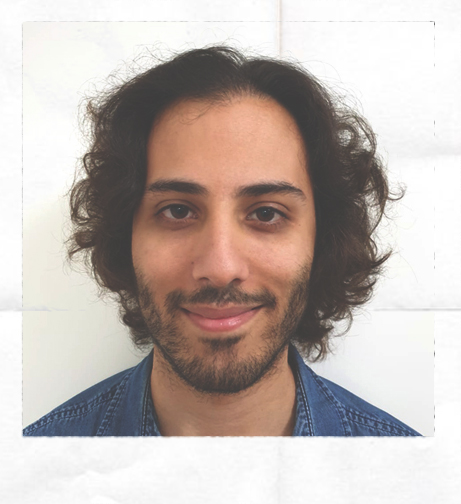
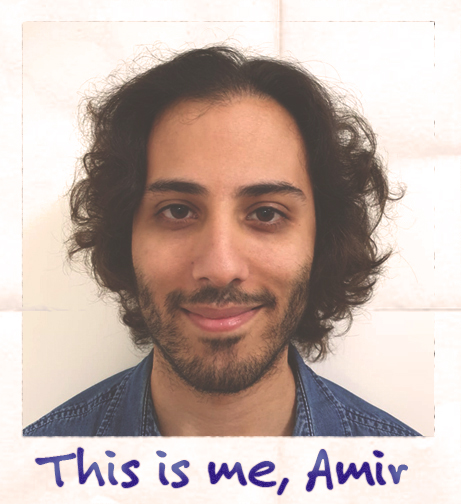
Improved responsive design in all views. Added hamburger. Improved styles on all links. Added text to profile picture

Changed region(s): [[0.3341, 0.8929, 0.8807, 0.9821], [0.0607, 0.8929, 0.3037, 0.9821]]

diff --git a/pages/index.tsx b/pages/index.tsx
@@ -8,52 +8,60 @@ import TopSvg from '../components/svgs/layered-waves-haikei.svg'
 import Brushstroke from '../components/svgs/brushstroke_small.svg'
 import BotSvg from '../components/svgs/layered-waves-haikei-bottom4.svg'
 import {FaChevronDown, FaJava, FaCss3Alt, FaHtml5, FaJsSquare, FaPhp, FaGit} from 'react-icons/fa/'
+import {FiChevronsUp} from 'react-icons/fi'
 import {IoLocationOutline} from 'react-icons/io5/'
 import {DiScrum} from 'react-icons/di/'
 import {SiTypescript, SiMysql, SiCplusplus, SiApachegroovy, SiAngular, SiNextdotjs, SiLaravel, SiGithub, SiGitlab, SiJirasoftware, SiTeamcity, SiPostman, SiSpring, SiSpringboot, SiIntellijidea, SiVisualstudiocode, SiDocker, SiLinux, SiTailwindcss, SiAdobephotoshop} from 'react-icons/si/'
 import {AiFillLinkedin, AiFillFacebook, AiOutlineGithub} from 'react-icons/ai/'
 import { Inter } from '@next/font/google'
 import { InView } from 'react-intersection-observer';
+import React, { useState } from "react";
 
 
 const inter = Inter({ subsets: ['latin'] })
-
 const iconStyle = "w-5/5 h-2/5 text-white sm:text-9xl sm:h-2/4";
 
 export default function Home() {  
+  const [homeInView, sethomeInView] = useState(false);
   return (
     <>
       <Head>
-        <title>Create Next App</title>
+        <title>Colorful Code</title>
         <meta name="description" content="Generated by create next app" />
         <meta name="viewport" content="width=device-width, initial-scale=1" />
         <link rel="icon" href="/favicon.ico" />
       </Head>
-
-      <main className='snap-y snap-mandatory scroll-smooth h-screen w-full overflow-y-scroll'>
-        <Nav />
-        <section id="home" className='snap-start bg-lavaOrange w-full h-full flex flex-col justify-center overflow-hidden'>
-          <h1 className="animate-fadeInDown animate-fast mb-20 text-violet-500 uppercase font-extrabold text-center drop-shadow-lg text-5xl sm:text-9xl ">Colorful Code</h1>
-          <h2 className="animate-fadeIn animate-slow animate-delay-[600ms] mb-20 text-zinc-800 lowercase font-light text-center text-sm sm:text-lg sm:font-normal">Bringing a human touch to technology</h2>
-          <a className='animate-fadeInUpBig animate-duration-[2.1s] animate-delay-[600ms] self-center' href="#about"><FaChevronDown className='animate-shakeY animate-infinite animate-duration-[10s] self-center text-4xl sm:text-6xl'/></a>
-        </section>
+      
+      <main className='relative snap-y snap-mandatory scroll-smooth h-screen w-full overflow-y-scroll'>
+          <Nav showHamburger={!homeInView} />  
+          <InView triggerOnce={false} threshold={0.01} initialInView={true} fallbackInView={true} onChange={(inView) => sethomeInView(!homeInView)}>
+          {({ inView, ref, entry }) => (
+            <section ref={ref} id="home" className="snap-start bg-lavaOrange w-full h-full flex flex-col gap-4 justify-center overflow-hidden p-4 md:gap-6">
+              <h1 className="animate-fadeInDown animate-fast text-violet-500 uppercase font-extrabold text-center drop-shadow-lg text-5xl md:text-8xl lg:9xl ">Colorful Code</h1>
+              <h2 className="animate-fadeIn animate-slow animate-delay-[600ms] text-zinc-800 lowercase font-light text-center text-sm sm:text-lg sm:font-normal">Bringing a human touch to technology</h2>
+              <a className='animate-fadeInUpBig animate-duration-[2.1s] animate-delay-[600ms] self-center focus:ring-1 outline-none' href="#about"><FaChevronDown className='fill-black hover:fill-red-500 active:fill-red-700 animate-shakeY animate-infinite animate-duration-[10s] self-center text-4xl landscape:md:text-4xl md:text-7xl lg:text-6xl'/></a>
+            </section>
+          )}
+          </InView>
 
         <InView triggerOnce={true} threshold={0.01} initialInView={false} fallbackInView={true}>
         {({ inView, ref, entry }) => (
           <section id="about" ref={ref} className='snap-start bg-amber-400 w-full h-full flex flex-col overflow-y-auto p-8'>
             <div className={`relative flex justify-center mb-4 ${inView ? 'animate-slideInDown animate-fast' : ''}`}>
               <Brushstroke className="absolute w-1/2 h-1/2 top-1/2 fill-brightMustard"/>
-              <h1 className='text-shadow-sm relative uppercase drop-shadow-lg text-white text-center font-semibold text-3xl mb-2 sm:text-9xl sm:mb-10 sm:text-shadow-lg'>About</h1>
+              <h1 className='text-shadow-sm relative uppercase text-white text-center font-semibold text-3xl mb-2 landscape:md:text-4xl md:text-7xl lg:text-9xl lg:mb-10 lg:text-shadow-lg'>About</h1>
             </div>
-            <Image className={`self-center shadow-2xl w-70 h-70 object-fill rounded-md ${inView ? 'animate-jackInTheBox animate-slow' : ''}`} src="/images/profile.jpg" width="200" height="0" alt="Picture of Amir" />
-            <div className={`text-base space-y-6 my-6 self-center sm:mt-12 sm:mb-24 ${inView ? 'animate-slideInUp animate-faster' : ''}`}>
-              <p className="font-light text-gray-800">I'm the face behind Colorful Code, a 35 year old Software Engineer based in Sweden. At heart I'm a creative soul that is passionate about creating and problem solving. I also love to learn new things in life, so I try to stay curious and keep an open mind.</p>
-              <p className="font-light text-gray-800">My clients can always expect a professional service with modern technological solutions. I also aim to create a fun and engaging work environment and elevate my peers when possible.</p>
-              <p className="font-light text-gray-800">Outside of work I write and produce music, spend time with friends and family, hike, garden, exercise, travel, listen to podcasts etc. I wish there was more time in life because the list is long and it keeps growing! :D</p>
+            <div className="flex flex-col align-middle justify-center lg:flex-row lg:gap-10">
+              <Image className={`self-center shadow-2xl w-70 h-70 object-fill rounded-md ${inView ? 'animate-jackInTheBox animate-slow' : ''}`} src="/images/profile.jpg" width="200" height="0" alt="Picture of Amir" />
+              <div className={`font-light text-black text-center text-base space-y-6 my-6 lg:max-w-xl md:my-12 ${inView ? 'animate-slideInUp animate-faster' : ''}`}>
+                <p className="w-full">I'm the face behind Colorful Code, a 35 year old <span className="relative inline-block before:absolute before:bg-[#ffd500] before:w-[102%] before:h-[90%] before:-z-10 before:rounded-[15%_27%_20%_31%] before:-left-1 before:top-1 before:-rotate-2">Software Engineer based in Sweden.</span> At heart I'm a creative soul that is passionate about creating and problem solving. I also love to learn new things in life, so I try to stay curious and keep an open mind.</p>
+                <p>My clients can always expect a <span className="relative inline-block before:absolute before:bg-[#ffd500] before:w-full before:h-[90%] before:-z-10 before:rounded-[15%_30%_23%_28%] before:top-1 before:rotate-1">professional service with modern technological solutions.</span> I also aim to create a fun and engaging work environment and elevate my peers when possible. I am a big believer in being <span className="relative inline-block before:absolute before:bg-[#ffd500] before:w-full before:h-[90%] before:-z-10 before:rounded-[5%_25%_30%_50%] before:top-1 before:-left-0.5 before:-rotate-1">ambitious, genuine, reliable, responsible and a teamplayer.</span></p>
+                <p>Outside of work I write and produce music, spend time with friends and family, hike, garden, exercise, travel, listen to podcasts etc. I wish there was more time in life because the list is long and it keeps growing! :D</p>
+              </div>
             </div>
-              <h2 className={`text-center font-normal text-xl text-md sm:text-4xl sm:mb-2 sm:font-light ${inView ? 'animate-zoomIn animate-faster' : ''}`}>Tools I use</h2>
+              <h2 className={`text-center font-light text-xl text-md md:text-2xl md:font-light lg:text-4xl lg:mb-2 lg:font-light ${inView ? 'animate-zoomIn animate-faster' : ''}`}>Tools I use</h2>
               <div className="flex justify-center">
-                <div className={`flex flex-wrap max-w-3xl p-2 justify-center gap-0 sm:gap-x-10 gap-y-4 ${inView ? 'animate-zoomIn animate-faster' : ''}`}>
+                <div className={`flex flex-wrap max-w-3xl p-2 justify-center gap-0 md:gap-x-10 gap-y-4 ${inView ? 'animate-zoomIn animate-faster' : ''}`}>
                   <SkillsIconLink url="https://www.java.com" icon={<FaJava className={iconStyle} />}/>
                   <SkillsIconLink url="https://www.w3.org/Style/CSS/Overview.en.html" icon={<FaCss3Alt className={iconStyle} />}/>
                   <SkillsIconLink url="https://www.javascript.com" icon={<FaJsSquare className={iconStyle} />}/>
@@ -92,9 +100,9 @@ export default function Home() {
           <section id="projects" ref={ref} className='snap-start bg-teal-500  w-full h-full flex flex-col overflow-y-auto p-8'>
             <div className={`relative flex justify-center mb-4 ${inView ? 'animate-slideInLeft animate-faster sm:animate-slideInDown sm:animate-fast' : ''}`}>
               <Brushstroke className="absolute w-1/2 h-1/2 top-1/2 fill-green-300"/>
-              <h1 className='text-shadow-sm relative uppercase drop-shadow-lg text-white text-center font-semibold text-3xl mb-2 sm:text-9xl sm:mb-10 sm:text-shadow-lg'>Projects</h1>
+              <h1 className='text-shadow-sm relative uppercase text-white text-center font-semibold text-3xl mb-2 landscape:md:text-4xl md:text-7xl lg:text-9xl lg:mb-10 lg:text-shadow-lg'>Projects</h1>
             </div>
-            <p className={`text-xs font-thin self-center mb-4 sm:text-base ${inView ? 'animate-slideInRight animate-faster sm:animate-slideInUp' : ''}`}> Most of my work are things I can not share here due to client confidentiality. However, I have more personal projects that will be added soon.</p>
+            <p className={`text-xs font-thin self-center mb-4 md:text-base ${inView ? 'animate-slideInRight animate-faster sm:animate-slideInUp' : ''}`}> Most of my work are things I can not share here due to client confidentiality. However, I have more personal projects that will be added soon.</p>
             <div className={`flex flex-wrap grow gap-y-10 gap-x-20 justify-center overflow-y-auto ${inView ? 'animate-slideInLeft animate-faster sm:animate-slideInUp sm:animate-duration-500' : ''}`}>
               <ProjectCard imageName="teaguide" imageAlt="Image of this site" header="This portfolio site" repoName="nextjs-portfolio-site" siteUrl="https://www.colorfulcode.se" tools={["NextJS", "React", "CSS", "TailwindCSS", "HTML", "Animate.css", "FormCarry"]} text="A single page application to showcase my projects and promote my business. I wanted to learn some new frameworks with this project so I wrote this site using NextJS and Tailwind."/>
               <ProjectCard imageName="teaguide" imageAlt="Image of word search site" header="Word search" repoName="" siteUrl="" tools={["Spring Boot", "Java", "React", "NextJS"]} text="Currently under construction."/>
@@ -114,42 +122,47 @@ export default function Home() {
           <section id="contact"  ref={ref} className='snap-start bg-indigo-500 w-full h-full flex flex-col align-middle overflow-y-auto p-8'>
             <div className={`relative flex justify-center mb-4 ${inView ? 'animate-zoomIn animate-fast' : ''}`}>
                 <Brushstroke className="absolute w-1/2 h-1/2 top-1/2 fill-red-400"/>
-                <h1 className='text-shadow-sm relative uppercase drop-shadow-lg text-white text-center font-semibold text-3xl mb-2 sm:text-9xl sm:mb-10 sm:text-shadow-lg'>Contact</h1>
+                <h1 className='text-shadow-sm relative uppercase text-white text-center font-semibold text-3xl mb-2 landscape:md:text-4xl md:text-7xl lg:text-9xl lg:mb-10 lg:text-shadow-lg'>Contact</h1>
               </div>
 
             {/* Main container in this section */}
             <div className={`flex flex-wrap self-center space-y-4 w-full shadow-2xl rounded-lg border border-slate-600 sm:w-fit p-2 ${inView ? 'animate-slideInUp animate-faster' : ''}`}>
               <div className={`flex w-full justify-center mt-4 ${inView ? 'animate-flipInX animate-delay-[400ms]' : ''}`}>
-                <h2 className="text-center text-xs font-bold shadow-lg border-2 rounded-lg border-green-400 bg-green-100 p-2">Currently available for new contracts.</h2>
+                <h2 className="text-center text-xs font-bold shadow-lg border rounded-lg border-black bg-gradient-to-r from-lime-200 to-emerald-200 p-2">Currently available for new contracts.</h2>
               </div>
               {/* Container for contact form and address/icons */}
               <div className='flex flex-wrap w-full justify-center p-2'>
-                  <div className='flex max-w-xl'>
-                    <ContactForm bgColor="bg-indigo-500" sendBtnBorder="border-indigo-600 " sendBtnBg="bg-indigo-200" />   
+                  <div className='flex items-center max-w-xl lg:w-full'>
+                    <ContactForm bgColor="indigo-500" sendBtnBorderColor="indigo-600 " sendBtnBg="indigo-200" />   
                   </div>
                   <div className='flex grow flex-col h-auto self-center mt-8 space-y-10'>
                     <div className="flex items-center justify-center">
-                      <IoLocationOutline className='text-lg text-black mr-4'/>
-                      <div className="max-w-fit">
-                        <div className="max-w-fit font-light text-black tracking-wide">Colorful Code</div>
-                        <div className="max-w-fit font-light text-black tracking-wide">Gullbergsgatan 6</div>
-                        <div className="max-w-fit font-light text-black tracking-wide">58246 Linköping</div>
-                        <div className="max-w-fit font-light text-black tracking-wide">Sweden</div>
+                      <IoLocationOutline className='text-lg text-black mr-4 md:text-xl'/>
+                      <div className="max-w-fit font-light text-black tracking-wide md:text-xl">
+                        <div>Colorful Code</div>
+                        <div>Gullbergsgatan 6</div>
+                        <div>58246 Linköping</div>
+                        <div>Sweden</div>
                       </div>
                     </div>
-                    <div className='flex justify-center space-x-8 sm:justify-center sm:space-x-12'>         
-                      <a href="https://www.linkedin.com/in/colorfulcode/" target="_blank" className='flex justify-center align-middle shadow-md bg-gray-700 rounded-md'>
+                    <div className='flex justify-center space-x-8 md:space-x-12'>         
+                      <a href="https://www.linkedin.com/in/colorfulcode/" target="_blank" className='flex justify-center align-middle shadow-md bg-gray-700 rounded-md focus:outline-none focus:ring-2 focus:ring-slate-300 focus:ring-offset-2 ring-offset-indigo-600'>
                         <AiFillLinkedin className='text-4xl fill-red-300'/>
                       </a>   
-                      <a href="https://www.facebook.com/AmicciUntzUntz" target="_blank" className='flex justify-center align-middle shadow-md bg-gray-700 rounded-md'>
+                      <a href="https://www.facebook.com/AmicciUntzUntz" target="_blank" className='flex justify-center align-middle shadow-md bg-gray-700 rounded-md focus:outline-none focus:ring-2 focus:ring-slate-300 focus:ring-offset-2 ring-offset-indigo-600'>
                         <AiFillFacebook className='text-4xl fill-amber-400'/>
                       </a>   
-                      <a href="https://github.com/colorful-code" target="_blank" className='flex justify-center align-middle shadow-md bg-gray-700 rounded-md'>
+                      <a href="https://github.com/colorful-code" target="_blank" className='flex justify-center align-middle shadow-md bg-gray-700 rounded-md focus:outline-none focus:ring-2 focus:ring-slate-300 focus:ring-offset-2 ring-offset-indigo-600'>
                         <AiOutlineGithub className='text-4xl fill-teal-400'/>
                       </a>   
                     </div>
                   </div>
               </div>
+            </div>
+            <div className="w-full mt-10 mb-6 flex justify-center">
+              <a href="#home" className="shadow-md border border-indigo-600 bg-indigo-200 max-w-fit flex justify-center align-middle rounded-full px-2 py-3 animate-twBounce animate-infinite focus:outline-none focus:ring-2 focus:ring-slate-300 focus:ring-offset-2 ring-offset-indigo-600">
+                <FiChevronsUp className="mb-1 text-xl text-gray-700" />
+              </a>
             </div>
           </section>
         )}

diff --git a/components/Nav.tsx b/components/Nav.tsx
@@ -1,21 +1,44 @@
-const Nav = () => {
+import { useState } from 'react';
+
+const Nav = ({showHamburger = false}) => {
+    const [burgerMenuOpen, setburgerMenuOpen] = useState(false);
+
     return (
-        <nav id="nav" className="z-50 py-10 pr-16 absolute top-0 right-0 overflow-hidden hidden sm:inline">
-            <ul className="flex gap-5">
-                <li className="animate-fadeInRight animate-slower">
-                    <a className="border border-black text-black px-4 py-2 rounded-md" href="#home">Home</a>
-                </li>
-                <li className="animate-fadeInRight animate-slow">
-                    <a className="border border-black text-black px-4 py-2 rounded-md" href="#about">About</a>
-                </li>
-                <li className="animate-fadeInRight animate-fast">
-                <a className="border  border-black text-black px-4 py-2 rounded-md" href="#projects">Projects</a>
-                </li>
-                <li className="animate-fadeInRight animate-faster">
-                <a className="border  border-black text-black px-4 py-2 rounded-md" href="#contact">Contact</a>
-                </li>
-            </ul>
-        </nav>
+        <>
+            <nav className={`z-40 fixed top-0 left-0 w-full h-fitn ${showHamburger ? 'animate-bounceInLeft animate-fast block' : 'hidden'} 2xl:hidden`}>
+                <div className="flex flex-col"> 
+                    <div className={`-z-10 opacity-80 absolute bg-black -top-8 -left-8 rounded-br-[60%] transform transition-all duration-[0.2s] ${burgerMenuOpen ? 'h-60 w-40 -top-4 -left-10 rounded-br-[35%]' : 'h-24  w-20'}`}>
+                    </div>
+                    <div className="absolute top-2 left-2">
+                        <button onClick={() => setburgerMenuOpen(!burgerMenuOpen)} className={`h-6 w-6 duration-500 transform origin-center ${burgerMenuOpen ? 'rotate-45' : ''}`}>
+                            <div className={`relative bg-white h-[2px] w-5 transform transition-all delay-100 origin-center before:bg-white before:h-[2px] before:w-5 before:absolute before:left-0 before:transition-all before:duration-100 after:bg-white after:h-[2px] after:w-5 after:absolute after:left-0 after:transition-all after:duration-100 ${burgerMenuOpen ? 'before:rotate-90 before:top-0 after:rotate-90 after:bottom-0 ' : 'before:-top-2 after:-bottom-2'}`}></div>
+                        </button>
+                        <ul className={`text-white mt-4 ml-4 space-y-3 font-bold underline decoration-2 underline-offset-2 ${burgerMenuOpen ? 'block animate-bounceInLeft animate-duration-[0.9s]' : 'hidden'} `}>
+                            <li><a href="#home" onClick={() => setburgerMenuOpen(!burgerMenuOpen)} className="hover:text-lavaOrange active:text-red-500">Home</a></li>
+                            <li><a href="#about" onClick={() => setburgerMenuOpen(!burgerMenuOpen)} className="hover:text-amber-400 active:text-amber-500">About</a></li>
+                            <li><a href="#projects" onClick={() => setburgerMenuOpen(!burgerMenuOpen)} className="hover:text-teal-500 active:text-teal-600">Projects </a></li>
+                            <li><a href="#contact" onClick={() => setburgerMenuOpen(!burgerMenuOpen)} className="hover:text-indigo-500 active:text-indigo-600">Contact</a></li>
+                        </ul>
+                    </div>
+                </div>
+            </nav>
+            <nav className="z-50 py-10 pr-16 fixed top-0 right-0 overflow-hidden hidden 2xl:inline">
+                <ul className="flex px-1 gap-5 font-semibold text-neutral-900">
+                    <li className="bg-lavaOrange rounded-md animate-fadeInRight animate-slower">
+                        <a className="flex justify-center align-middle  rounded-md px-4 py-2 hover:text-white transition ease-in-out duration-150 hover:scale-110 active:scale-100 active:text-neutral-200 focus:ring-2 focus:ring-slate-700 focus:ring-inset outline-none focus:hover:ring-0" href="#home">Home</a>
+                    </li>
+                    <li className="bg-amber-400 rounded-md animate-fadeInRight animate-slow ">
+                        <a className="flex justify-center align-middle rounded-md px-4 py-2 hover:text-white transition ease-in-out duration-150 hover:scale-110 active:scale-100 active:text-neutral-200 focus:ring-2 focus:ring-slate-700 focus:ring-inset outline-none focus:hover:ring-0" href="#about">About</a>
+                    </li>
+                    <li className="bg-teal-500 rounded-md animate-fadeInRight animate-fast">
+                        <a className="flex justify-center align-middle  rounded-md px-4 py-2 hover:text-white transition ease-in-out duration-150 hover:scale-110 active:scale-100 active:text-neutral-200 focus:ring-2 focus:ring-slate-700 focus:ring-inset outline-none focus:hover:ring-0" href="#projects">Projects</a>
+                    </li>
+                    <li className="bg-indigo-500 rounded-md animate-fadeInRight animate-faster">
+                        <a className="flex justify-center align-middle  rounded-md px-4 py-2 hover:text-white transition ease-in-out duration-150 hover:scale-110 active:scale-100 active:text-neutral-200 focus:ring-2 focus:ring-slate-700 focus:ring-inset outline-none focus:hover:ring-0" href="#contact">Contact</a>
+                    </li>
+                </ul>
+            </nav>
+         </>
     )
 }
 

diff --git a/components/ContactForm.tsx b/components/ContactForm.tsx
@@ -1,42 +1,45 @@
 import { useForm } from '@formcarry/react';
+import {FaCheck} from 'react-icons/fa'
 
-function ContactForm({bgColor, sendBtnBorder, sendBtnBg}) {
-  const {state: formcarryState, submit: formcarrySubmit} = useForm({
-	id: 'zslEjawD4'
-  });
+function ContactForm({bgColor, sendBtnBorderColor, sendBtnBg}) {
+	const {state: formcarryState, submit: formcarrySubmit} = useForm({
+		id: 'zslEjawD4'
+	});
 
-  if (formcarryState.submitted) {
-    return <div>Thank you! We received your submission.</div>;
-  }
+	if (formcarryState.submitted) {
+		return <div className="flex flex-col justify-center items-center w-full h-fit p-2 ring-1 rounded-xl ring-black bg-opacity-70 bg-white animate-bounceIn animate-duration-[1.4s]">
+			<p className="text-sm lg:text-lg text-black font-semibold text-center">Thank you! Message sent.</p>
+			<FaCheck className="text-xl lg:text-6xl fill-emerald-500" />
+		</div>;
+	}
 
-  const labelStyle = "font-semibold text-slate-300"
+  	const labelStyle = "font-semibold text-slate-300"
 
   return (
-    <form className={`flex flex-col space-y-4 w-full ${bgColor} p-4 rounded-xl onSubmit={formcarrySubmit}`}>
+    <form className={`flex flex-col space-y-4 w-full bg-${bgColor} p-4 rounded-xl`} onSubmit={formcarrySubmit}>
 		<div>
 			<label className={labelStyle} htmlFor="name">Name:</label>
-			<input className="p-1 shadow-inner rounded-md  focus:outline-none focus:ring focus:ring-gray-700 w-full" id="name" type="text" name="text" placeholder="" />
+			<input className="p-1 shadow-inner rounded-md bg-offWhite focus:bg-white focus:outline-none focus:ring-2 focus:ring-slate-700 w-full" id="name" type="text" name="text" placeholder="" required />
 		</div>
 
 		<div>
 			<label className={labelStyle} htmlFor="subject">Subject:</label>
-			<input className="p-1 shadow-inner rounded-md  focus:outline-none focus:ring focus:ring-gray-700 w-full" id="subject" type="text" name="subject" placeholder=""/>
+			<input className="p-1 shadow-inner rounded-md bg-offWhite focus:bg-white focus:outline-none focus:ring-2 focus:ring-slate-700 w-full" id="subject" type="text" name="subject" placeholder="" required/>
 		</div>
 
 		<div>
 		<label className={labelStyle} htmlFor="email">Email:</label>
-		<input className="p-1 shadow-inner rounded-md  focus:outline-none focus:ring focus:ring-gray-700 w-full" id="email" type="email" name="email" placeholder=""/>
+		<input className="p-1 shadow-inner rounded-md bg-offWhite focus:bg-white focus:outline-none focus:ring-2 focus:ring-slate-700 w-full" id="email" type="email" name="email" placeholder="" required/>
 		</div>
 
 		<div>
 		<label className={labelStyle} htmlFor="message">Message:</label>
-		<textarea className="p-1 shadow-inner rounded-md h-32 resize-none focus:outline-none focus:ring focus:ring-gray-700 w-full" id="message" name="message" placeholder="Enter your message..." />
+		<textarea className="p-1 shadow-inner rounded-md bg-offWhite focus:bg-white h-32 resize-none focus:outline-none focus:ring-2 focus:ring-slate-700 w-full" id="message" name="message" placeholder="Enter your message..." required/>
 		</div>
 
 		<div className='flex justify-center'>
-			<button className={`border ${sendBtnBorder} shadow-md py-2 px-5 rounded-lg self-center focus:outline-none focus:ring focus:ring-gray-700 w-3/5 ${sendBtnBg} sm:w-full`} type="submit">Send</button>
+			<button className={`border border-${sendBtnBorderColor} shadow-md py-2 px-5 rounded-lg self-center hover:bg-indigo-300 active:bg-indigo-400 focus:outline-none focus:ring-2 focus:ring-slate-700 w-3/5 bg-${sendBtnBg} lg:w-full`} type="submit">Send</button>
 		</div>
-
     </form>
   );
 }

diff --git a/components/ProjectCard.tsx b/components/ProjectCard.tsx
@@ -36,8 +36,8 @@ const Nav = ({ imageName, imageAlt, header, repoName, siteUrl, tools, text }: Pr
             <hr className="w-2/3 m-auto opacity-30"/>
             <div className="px-2">
                 <div className="flex justify-center space-x-4 sm:space-x-12">
-                    <a className="shadow-sm flex items-center p-1 rounded-lg text-sm border border-green-600 bg-green-300" href={gitHubUrl + repoName} ><BsGithub className="inline mx-1"/> See code</a>
-                    {siteUrl && <a className="shadow-sm flex items-center p-1 rounded-lg text-sm border border-green-600 bg-green-300" href={siteUrl}><FiExternalLink className="inline mx-1"/> Visit site</a>}
+                    <a className="shadow-sm flex items-center p-1 rounded-lg text-sm border border-green-600 bg-green-300 active:bg-emerald-500 hover:bg-emerald-400 focus:ring-1 focus:ring-gray-600 focus:outline-none" href={gitHubUrl + repoName} target="_blank"><BsGithub className="inline mx-1"/> See code</a>
+                    {siteUrl && <a className="shadow-sm flex items-center p-1 rounded-lg text-sm border border-green-600 bg-green-300 active:bg-emerald-500 hover:bg-emerald-400 focus:ring-1 focus:ring-gray-600 focus:outline-none" href={siteUrl} target="_blank"><FiExternalLink className="inline mx-1"/> Visit site</a>}
                 </div>
             </div>
         </div>

diff --git a/components/SkillsIconLink.tsx b/components/SkillsIconLink.tsx
@@ -1,7 +1,7 @@
 const SkillsIconLink = ({url, icon}) => {
     return (
-        <a href={url} target="_blank">
-            <div className="shadow-md shadow-black w-10 h-10 rounded-full flex justify-center items-center bg-violet-500 m-1 sm:w-16 sm:h-16 transform transition ease-in-out hover:-translate-y-1 hover:scale-110 hover:shadow-gray-900/50 hover:shadow-lg duration-300">
+        <a href={url} target="_blank" className="focus:outline-none focus:-translate-y-1 duration-300">
+            <div className="shadow-md shadow-black w-10 h-10 rounded-full flex justify-center items-center bg-violet-500 m-1 md:w-12 md:h-12 lg:w-16 lg:h-16 transform transition ease-in-out hover:-translate-y-1 hover:scale-110 hover:shadow-gray-900/50 hover:shadow-lg duration-300 active:scale-100">
                 {icon}
             </div>
             

diff --git a/tailwind.config.js b/tailwind.config.js
@@ -13,7 +13,8 @@ module.exports = withAnimations({
         'wineRed': '#871400',
         'brightMustard': '#f5730a',
         'oxfordBlue': '#011936',
-        'strongPurple': '#7f00c1'
+        'strongPurple': '#7f00c1',
+        'offWhite': '#fff9fe'
       },
       border: ['focus'],
     },

diff --git a/styles/globals.css b/styles/globals.css
@@ -11,10 +11,6 @@
   }
 }
 
-.animateDuration2100ms  {
-  --animate-duration: 2.1s;
-}
-
 .animateDuration10s  {
   --animate-duration: 10s;
 }
